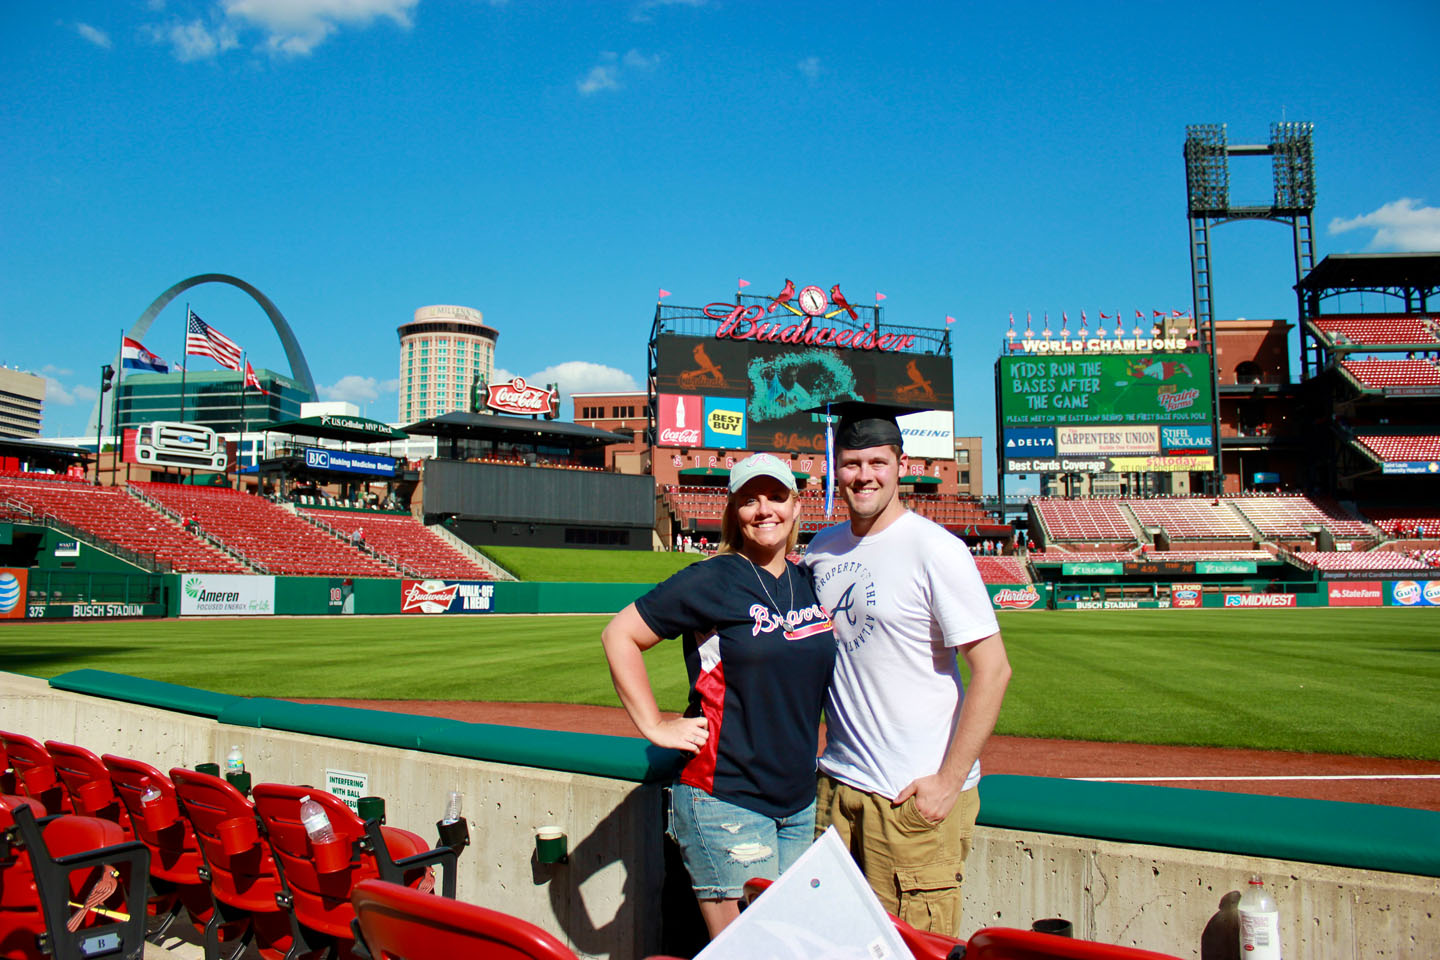
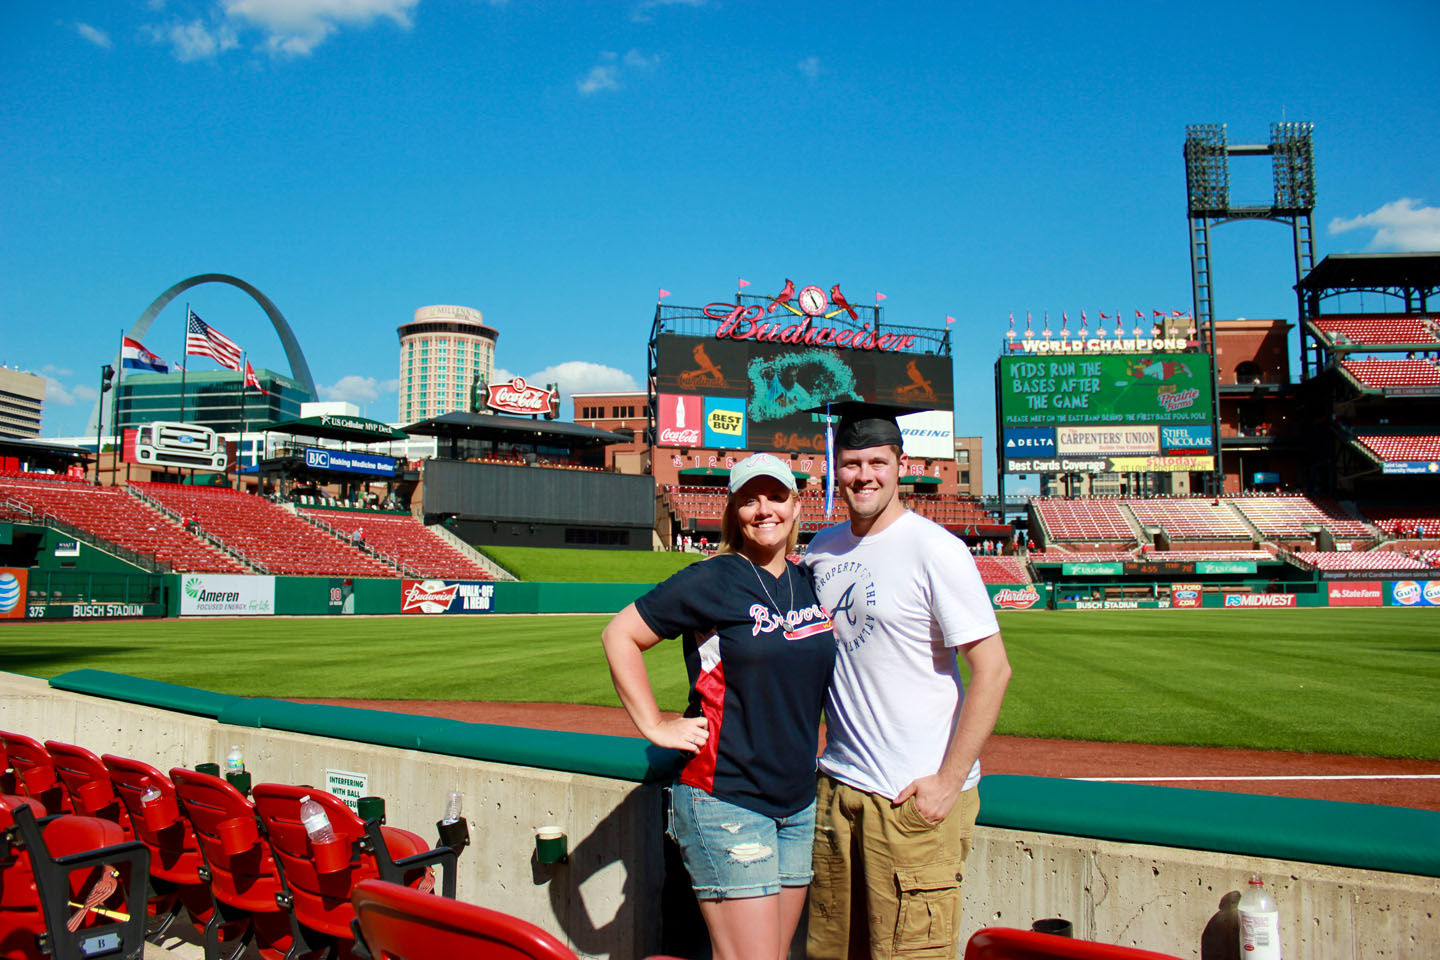
Add Beyond MLB photos and broaden Minor League card
- Add game-day photo strips to the Minor & Indie Ball and Banana Ball
  cards, with placeholder tiles until photos are dropped in
- Wire Banana Ball (Busch, Caesars Superdome) and Minor/Indie park
  photos (Dozer Park, Impact Field, Regions Field) into the strips
- Generalize the photo lightbox to handle multiple galleries, so the
  Beyond MLB strips open click-to-enlarge with captions like the MLB
  slideshow
- Rename "Minor League" card to "Minor & Indie Ball" to honestly cover
  affiliated, partner-league, and indie/collegiate parks
- Color the Minor & Indie chips by team (same treatment as Banana Ball)
- Add Normal CornBelters (The Corn Crib, Prospect League) and Springfield
  Horseshoes (Robin Roberts Stadium, formerly the Sliders — both visits
  on one chip); update map dots and bump the count to 7
- Re-export images/ballparks/Busch-Stadium.jpg

Changed region(s): [[0.4688, 0.8438, 0.6875, 1.0]]

diff --git a/baseball/index.html b/baseball/index.html
@@ -543,6 +543,56 @@
       padding: 0;
     }
 
+    /* --- Beyond MLB photo strips ---------------------- */
+    /* Game-day photos for the Minor League + Banana Ball cards.
+       Drop real photos in by replacing a placeholder tile with:
+         <div class="bp-photo"><img loading="lazy" src="../images/beyond-mlb/your-photo.jpg" alt="Caption"></div>
+       Placeholder tiles render until the photos are in place. */
+    .bp-photo-strip {
+      display: grid;
+      grid-template-columns: repeat(3, 1fr);
+      gap: 8px;
+      padding: 0.4rem 1rem 1.1rem;
+      margin: 0;
+    }
+
+    .bp-photo-strip .bp-photo {
+      aspect-ratio: 4 / 3;
+      border-radius: 8px;
+      overflow: hidden;
+      background: #eef1f4;
+    }
+
+    .bp-photo-strip .bp-photo img {
+      width: 100%;
+      height: 100%;
+      object-fit: cover;
+      display: block;
+      cursor: zoom-in;
+    }
+
+    .bp-photo-strip .bp-photo.is-placeholder {
+      display: flex;
+      flex-direction: column;
+      align-items: center;
+      justify-content: center;
+      gap: 0.3rem;
+      background: #fff;
+      border: 1px dashed #c7cdd3;
+      color: #aab4bd;
+    }
+    .bp-photo-strip .bp-photo.is-placeholder svg { width: 1.6rem; height: 1.6rem; }
+    .bp-photo-strip .bp-photo.is-placeholder span {
+      font-family: 'Roboto Condensed', sans-serif;
+      font-size: 0.62rem;
+      letter-spacing: 0.06em;
+      text-transform: uppercase;
+    }
+
+    @media (max-width: 640px) {
+      .bp-photo-strip { grid-template-columns: repeat(2, 1fr); }
+    }
+
     /* --- Photo lightbox ------------------------------- */
     .cycle-slideshow img { cursor: zoom-in; }
 
@@ -921,19 +971,27 @@
 
           <div class="split snip ballpark milb-card">
             <h2 class="ballpark beyond-milb">
-              Minor League
-              <span class="divisionCount">5</span>
+              Minor &amp; Indie Ball
+              <span class="divisionCount">7</span>
             </h2>
             <div class="map-wrap">
               <div id="milbMap"></div>
             </div>
             <p class="bp-chip-list">
-              <span class="bp-chip">Burlington Bees<small>Community Field &middot; Jul 29, 2011</small><small>left MiLB after 2020</small></span>
-              <span class="bp-chip">Gwinnett Braves<small>Coolray Field &middot; Aug 2, 2013</small><small>now Gwinnett Stripers</small></span>
-              <span class="bp-chip">Birmingham Barons<small>Regions Field &middot; Jul 19, 2014</small></span>
-              <span class="bp-chip">Chicago Dogs<small>Impact Field &middot; Jun 17, 2022</small><small>MLB partner league</small></span>
-              <span class="bp-chip">Peoria Chiefs<small>Dozer Park &middot; Jun 15, 2024</small></span>
+              <span class="bp-chip bp-team ink-dark is-seen" style="--team:#F2A900">Burlington Bees<small>Community Field &middot; Jul 29, 2011</small><small>left MiLB after 2020</small></span>
+              <span class="bp-chip bp-team is-seen" style="--team:#DB6B1E">Springfield Horseshoes<small>Robin Roberts Stadium</small><small>Jun 15, 2012 &amp; Jul 20, 2023</small><small>formerly Springfield Sliders &middot; Prospect League</small></span>
+              <span class="bp-chip bp-team is-seen" style="--team:#CE1141">Gwinnett Braves<small>Coolray Field &middot; Aug 2, 2013</small><small>now Gwinnett Stripers</small></span>
+              <span class="bp-chip bp-team is-seen" style="--team:#13274F">Birmingham Barons<small>Regions Field &middot; Jul 19, 2014</small></span>
+              <span class="bp-chip bp-team is-seen" style="--team:#008E97">Chicago Dogs<small>Impact Field &middot; Jun 17, 2022</small><small>MLB partner league</small></span>
+              <span class="bp-chip bp-team is-seen" style="--team:#2C8C3C">Normal CornBelters<small>The Corn Crib &middot; Jun 18, 2023</small><small>Prospect League</small></span>
+              <span class="bp-chip bp-team is-seen" style="--team:#6A4C93">Peoria Chiefs<small>Dozer Park &middot; Jun 15, 2024</small></span>
             </p>
+            <p class="bp-sublabel">Photos</p>
+            <div class="bp-photo-strip">
+              <div class="bp-photo"><img loading="lazy" src="../images/ballparks/beyond-mlb/Dozer-Park.jpg" alt="Peoria Chiefs &middot; Dozer Park, Peoria"></div>
+              <div class="bp-photo"><img loading="lazy" src="../images/ballparks/beyond-mlb/Impact-Field.jpg" alt="Chicago Dogs &middot; Impact Field, Rosemont"></div>
+              <div class="bp-photo"><img loading="lazy" src="../images/ballparks/beyond-mlb/Regions-Field.jpg" alt="Birmingham Barons &middot; Regions Field, Birmingham"></div>
+            </div>
           </div>
 
           <div class="split snip ballpark">
@@ -956,6 +1014,12 @@
               <span class="bp-chip bp-team is-unseen" style="--team:#D62828">Firefighters</span>
               <span class="bp-chip bp-team is-unseen" style="--team:#7C2D3A">Indianapolis Clowns</span>
             </p>
+            <p class="bp-sublabel">Photos</p>
+            <div class="bp-photo-strip">
+              <div class="bp-photo"><img loading="lazy" src="../images/ballparks/beyond-mlb/Banana-Ball-Caesars-Superdome-Outside-2026.jpg" alt="Banana Ball · Caesars Superdome, New Orleans &middot; Mar 2026"></div>
+              <div class="bp-photo"><img loading="lazy" src="../images/ballparks/beyond-mlb/Banana-Ball-Caesars-Superdome-Inside-2026.jpg" alt="Banana Ball · Caesars Superdome, New Orleans &middot; Mar 2026"></div>
+              <div class="bp-photo"><img loading="lazy" src="../images/ballparks/beyond-mlb/Banana-Ball-Busch-Stadium-2025.jpg" alt="Banana Ball · Busch Stadium, St. Louis &middot; Jul 2025"></div>
+            </div>
           </div>
 
         </section>
@@ -1075,9 +1139,11 @@
     (function () {
       var MILB = [
         { team: 'Burlington Bees',   park: 'Community Field', city: 'Burlington, IA',   lat: 40.8090, lng: -91.1378, note: '29 July 2011 · left MiLB after 2020' },
+        { team: 'Springfield Horseshoes', park: 'Robin Roberts Stadium', city: 'Springfield, IL', lat: 39.8186, lng: -89.6310, note: '15 June 2012 (Sliders) · 20 July 2023 (Horseshoes) · Prospect League' },
         { team: 'Gwinnett Braves',   park: 'Coolray Field',   city: 'Lawrenceville, GA', lat: 34.0099, lng: -83.9560, note: '2 August 2013 · now Gwinnett Stripers' },
         { team: 'Birmingham Barons', park: 'Regions Field',   city: 'Birmingham, AL',   lat: 33.5046, lng: -86.8127, note: '19 July 2014' },
         { team: 'Chicago Dogs',      park: 'Impact Field',    city: 'Rosemont, IL',     lat: 41.9806, lng: -87.8656, note: '17 June 2022 · MLB partner league' },
+        { team: 'Normal CornBelters',park: 'The Corn Crib',   city: 'Normal, IL',       lat: 40.5640, lng: -88.9937, note: '18 June 2023 · Prospect League' },
         { team: 'Peoria Chiefs',     park: 'Dozer Park',      city: 'Peoria, IL',       lat: 40.6917, lng: -89.5917, note: '15 June 2024' }
       ];
 
@@ -1122,19 +1188,7 @@
   <!-- Click-to-fullscreen photo lightbox (runs before Cycle2 so it captures the original slides) -->
   <script>
     (function () {
-      var slideshow = document.querySelector('.cycle-slideshow');
-      if (!slideshow) { return; }
-
-      // Capture the original images before Cycle2 clones/reorders them
-      var photos = Array.prototype.map.call(slideshow.querySelectorAll('img'), function (img) {
-        return { src: img.getAttribute('src'), alt: img.getAttribute('alt') || '' };
-      });
-      if (!photos.length) { return; }
-
-      function indexOfSrc(src) {
-        for (var i = 0; i < photos.length; i++) { if (photos[i].src === src) { return i; } }
-        return -1;
-      }
+      function capture(img) { return { src: img.getAttribute('src'), alt: img.getAttribute('alt') || '' }; }
 
       var overlay = document.createElement('div');
       overlay.className = 'lb-overlay';
@@ -1147,6 +1201,7 @@
 
       var lbImg = overlay.querySelector('.lb-img');
       var lbCap = overlay.querySelector('.lb-cap');
+      var photos = [];   // the currently-open gallery
       var idx = 0;
 
       function show(i) {
@@ -1155,7 +1210,8 @@
         lbImg.alt = photos[idx].alt;
         lbCap.textContent = photos[idx].alt;
       }
-      function open(i) {
+      function open(list, i) {
+        photos = list;
         show(i);
         overlay.classList.add('is-open');
         document.body.style.overflow = 'hidden';
@@ -1165,11 +1221,33 @@
         document.body.style.overflow = '';
       }
 
-      slideshow.addEventListener('click', function (e) {
-        var img = e.target.closest ? e.target.closest('img') : null;
-        if (!img) { return; }
-        var i = indexOfSrc(img.getAttribute('src'));
-        open(i < 0 ? 0 : i);
+      // MLB slideshow — capture originals before Cycle2 clones/reorders them,
+      // and match the clicked clone back to its original by src.
+      var slideshow = document.querySelector('.cycle-slideshow');
+      if (slideshow) {
+        var slides = Array.prototype.map.call(slideshow.querySelectorAll('img'), capture);
+        if (slides.length) {
+          slideshow.addEventListener('click', function (e) {
+            var img = e.target.closest ? e.target.closest('img') : null;
+            if (!img) { return; }
+            var src = img.getAttribute('src'), i = -1;
+            for (var j = 0; j < slides.length; j++) { if (slides[j].src === src) { i = j; break; } }
+            open(slides, i < 0 ? 0 : i);
+          });
+        }
+      }
+
+      // Beyond-MLB photo strips — each strip is its own gallery (no cloning)
+      Array.prototype.forEach.call(document.querySelectorAll('.bp-photo-strip'), function (strip) {
+        var imgs = Array.prototype.slice.call(strip.querySelectorAll('.bp-photo img'));
+        if (!imgs.length) { return; }
+        var list = imgs.map(capture);
+        strip.addEventListener('click', function (e) {
+          var img = e.target.closest ? e.target.closest('img') : null;
+          if (!img) { return; }
+          var i = imgs.indexOf(img);
+          open(list, i < 0 ? 0 : i);
+        });
       });
 
       overlay.querySelector('.lb-next').addEventListener('click', function (e) { e.stopPropagation(); show(idx + 1); });
